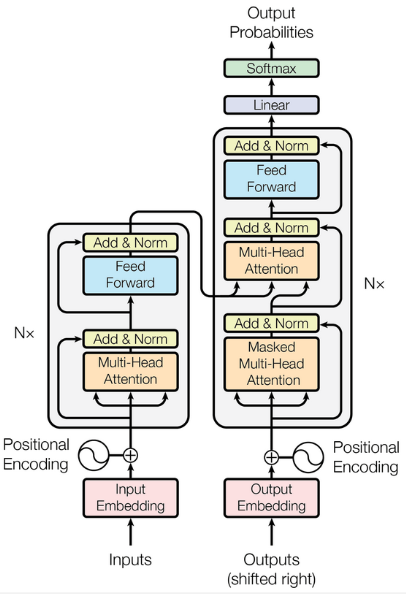
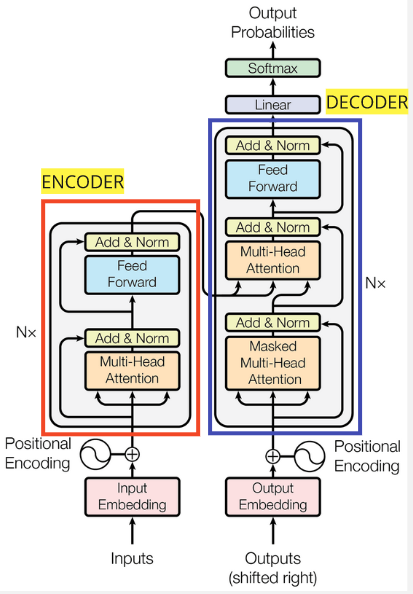
updated transformers-architecture

Changed region(s): [[0.0, 0.0, 1.0, 1.0]]

diff --git a/docs/deep-learning/13-transformers/02-transformers-architecture/transformers-architecture.md b/docs/deep-learning/13-transformers/02-transformers-architecture/transformers-architecture.md
@@ -8,23 +8,24 @@ description: Transformers Architecture
 **Main Source :**
 
 - **[Transformer (Attention is all you need) - Minsuk Heo 허민석](https://youtu.be/z1xs9jdZnuY?si=_rWDHRCle8k-x8SG)**
+- **[Illustrated Guide to Transformers Neural Network: A step by step explanation - The A.I. Hacker - Michael Phi](https://youtu.be/4Bdc55j80l8?si=hHjopC6GvZl-mZTv)**
 
-**Transformers** is a type of deep learning architecture that revolutionize the NLP field. Transformers specifically uses the [attention mechanism](/deep-learning/transformers/attention-mechanism) as the key component. While [RNN with attention](/deep-learning/transformers/attention-mechanism#rnn-with-attention) also use the attention mechanism, transformers is a standalone architecture that doesn't need traditional sequential model like [RNN](/deep-learning/rnn).
+**Transformers** is a type of deep learning architecture that specifically uses the [attention mechanism](/deep-learning/transformers/attention-mechanism) as the key component. While [RNN with attention](/deep-learning/transformers/attention-mechanism#rnn-with-attention) also use the attention mechanism, transformers is a standalone architecture that doesn't need traditional sequential model like [RNN](/deep-learning/rnn).
 
-RNN processes information in sequence, each step has to wait for the previous step to complete, this will makes computation slow. We also need to keep track of its hidden state, leading to increase in memory requirement. The removal of RNN will indeed allow us to get better performance. The motivation behind transformers is to address the performance issue we are facing in RNN. The question is, how can we preserve the attention mechanism while removing the RNN?
+RNN processes information in sequence, each step has to wait for the previous step to complete, this will makes computation slow. The removal of RNN will indeed allow us to get better performance. The motivation behind transformers is to address the performance issue we are facing in RNN. The question is, how can we remove RNN while preserving the attention mechanism?
 
 ## Transformers Architecture
 
 ![The main architecture of transformers](./transformers-architecture.png)  
-Source : https://machinelearningmastery.com/the-transformer-model/
+Source : https://machinelearningmastery.com/the-transformer-model/ (with modification)
 
-Transformers follow the encoder and decoder architecture, they contain the other working principle of transformers.
+Transformers follow the encoder and decoder architecture, meaning one component should capture and summarize information from input and another is the one that produces output.
 
 ### Encoder
 
-The encoder is responsible for taking the input sequence, it consist of multiple layer that works together. Here is the walkthrough of input processing in encoder :
+The encoder is responsible for taking and processing the input sequence, it consist of multiple layer that works together. Here is the walkthrough of input processing in encoder :
 
-1. **Input Embedding** : The input sequence is first transformed into a dense vector (often called as **token**) that captures its semantic meaning.
+1. **Input Embedding** : The input sequence is first transformed into a dense vector (often called as **token**) that of course contain numbers. The input embedding is a learnable process, meaning it can be adjusted during the backpropagation process.
 
 2. **Positional Encoding** : Since transformers doesn't include RNN that process input sequentially, **positional encoding** is a technique to capture the relative position of tokens within a sequence.
 
@@ -44,15 +45,21 @@ The first and second is the input pre-processing, the third and so on is the act
    - **Self-attention process** :  
      The self-attention is implemented by matrix multiplication. The token embedding are fed into the first layer in encoder. The self-attention mechanism is applied, it is done by calculating three types of vector called **query, key, and value vectors**. The tokens embedding are combined in a matrix, it will be multiplied by three types of matrices that correspond to each vector mentioned. The matrix are **Wq, Wk, and Wv**, they are basically weights in form of matrix, which mean they are learnable.
 
-   These three vector will be used to calculate the attention weight which is the value of importance of an element in sequence.
+   These three vector carries the information of token, they will be used to calculate an attention weight, which is the value of importance of a token in sequence.
 
    - The query vector represent specific position of token in the input sequence that we want to compute the attention weights for.
-   - Key vector represent the other token in the sequence that is being compared to the query vector. In contrast, we will compare all the element with each other.
+   - Key vector represent the other token in the sequence that is being compared to the query vector. As explained in self-attention mechanism, we will compare all the element with each other to consider which one is more important than other.
    - Value vector contain the actual information or the features of each token in the sequence.
 
-   The query and key vector (transposed) will be multiplied together, producing something called **attention scores**. They will be divided by the square root of the dimensionality of the key vectors, to prevent large number.
+   Visualization of the relation between each word or token in self-attention.  
+   ![Self-attention visualization 2](./self-attention-visualization.png)  
+   Source : https://www.researchgate.net/figure/A-visualization-of-a-learned-self-attention-head-on-a-sentence-The-visualization-shows_fig5_346522738, https://babich.biz/transformer-architecture/
 
-   [Softmax activation function](/deep-learning/neural-network#softmax-activation-function) will be applied to the previous result, resulting normalized value (they sum up to 1). The normalized value will be multiplied with the value vector, which is the actual token. The result of it is what we call **attention weights**. The output (called **attention layer output**) will be the sum of all attention weights and this will be done for all element in sequence.
+   The query and key vector (transposed) will be multiplied together, producing something called **attention scores**, it can be interpreted as the similarity between two token. The higher the result is the stronger the relevance. They will be divided by the square root of the dimensionality of the key vectors, to prevent large number. [Softmax activation function](/deep-learning/neural-network#softmax-activation-function) will be applied to the previous result, resulting normalized value (they sum up to 1).
+
+   The normalized value will be multiplied with the value vector. The result of it is what we call **attention weights**. The normalized value which represent the similarity of information is multiplied by the actual information of the token in input sequence. This mean we are assigning the similarity of information to each token.
+
+   The output (called **attention layer output**) will be the sum of all attention weights and this will be done for all element in sequence.
 
    ![Self-attention matrix multiplication](./self-attention.png)  
    Source : https://theaisummer.com/transformer/
@@ -60,27 +67,32 @@ The first and second is the input pre-processing, the third and so on is the act
    ![Another visualization of self-attention](./self-attention-2.png)  
    Source : https://youtu.be/z1xs9jdZnuY?si=czJyixA7IV3DxG7k&t=475
 
-4. **Multi-Head Attention** : Multi-head attention is a technique that extend self-attention mechanism for optimizing it using parallel computation.
+4. **Multi-Head Attention** : Multi-head attention is an extension of the self-attention mechanism that improves its efficiency through parallel computation.
 
    The set of query, key, and value vector we have obtained is grouped in something called **attention head**. They first goes into a linear layer to be projected into different vector spaces, basically projecting them mean we are looking through these vector from different perspective. This will allows the model to capture different representation of the input.
 
-   So, to calculate attention weights in parallel, we will compute all the attention head simultaneously. The same calculation that includes multiplication between query and key vector, softmax normalization, multiplication with the value vector is done.
+   So, to calculate attention weights in parallel, we will compute all the attention head simultaneously. The same calculation that includes multiplication between query and key vector, softmax normalization, and multiplication with the value vector, is also performed.
+
+   By calculating them simultaneously, the model can have longer dependencies when processing the input sequence. The model attends to all other tokens and can access different parts of the sequence during the matrix multiplication process.
 
    Each result of attention head will be concatenated together and will be passed into a linear layer again, producing the final output of multi-head attention layer.
 
    ![Multi-head attention](./multi-head-attention.png)  
    Source : https://paperswithcode.com/method/multi-head-attention
 
-5. **Residual Connection and Layer Normalization (Add & Norm)** : We did alot of calculation, during the backpropagation process, we may lose some information including the positional encoding we did in the earlier step. Transformers uses the [residual connection concept](/deep-learning/resnet#residual-connection) to help prevent the vanishing gradient issue. This layer also include a normalization process to normalize the output of attention layer, stabilizing the training process.
+5. **Residual Connection and Layer Normalization (Add & Norm)** : We did alot of calculation, during the backpropagation process, we may lose some information including the positional encoding we did in the earlier step. Transformers uses the [residual connection concept](/deep-learning/resnet#residual-connection) to help prevent the vanishing gradient issue. This is implemented by adding the input that bypass the attention layer with the same input that goes to the attention layer. This layer also include a normalization process to normalize the output of attention layer, to prevent large number and stabilize the training process.
 
-6. **Feed-Forward Networks (FFN)** : The attention output is passed through a feed-forward network within the encoder layer. The FFN that includes activation function like ReLU introduces non-linearity. The output of the FFN is then passed through another residual connection and layer normalization.
+6. **Feed-Forward Networks (FFN)** : The attention output is passed through a feed-forward network within the encoder layer. The FFN that includes activation function like ReLU introduces non-linearity. The output of the FFN is then passed through another residual connection and layer normalization. Similar to residual connection in multi-head attention layer, we will add the input that bypass the feed-forward network with the one that goes through it.
+
+   ![Residual connection](./add-norm.png)  
+   Source : https://deepgram.com/learn/visualizing-and-explaining-transformer-models-from-the-ground-up
 
 The step from 3 to 6 represent the process of a single encoder layer. In conclusion, a single layer of encoder processes and transform the input sequence to capture relevant information in the sequence.
 
 Transformers architecture may includes multiple encoder layer, they have identical architecture but they don't share weights.
 
 ![The encoder layer](./encoder-layer.png)  
-Source : https://machinelearningmastery.com/the-transformer-model/ (with modification)
+ Source : https://machinelearningmastery.com/the-transformer-model/ (with modification)
 
 ### Decoder
 
@@ -105,10 +117,10 @@ The decoder first process the previous output and then it will be combined with 
 
 7. **Output** : Finally, the output from previous layer will go into a linear layer, followed with softmax activation function to produces the probability of each token. The model select the token with highest probability and use it as the input for next decoder step.
 
-![Transformers output](./transformers-output.png)  
-Source : https://www.linkedin.com/pulse/intro-transformer-architecture-jithin-s-l
+   ![Transformers output](./transformers-output.png)  
+   Source : https://www.linkedin.com/pulse/intro-transformer-architecture-jithin-s-l
 
-### Learning Process
+#### Learning Process
 
 After output is generated, the prediction or whatever the output is will be compared with the actual label of the input. For example :
 
@@ -116,3 +128,5 @@ After output is generated, the prediction or whatever the output is will be comp
 - In text classification, the labels represent different categories of the input text.
 
 After loss is calculated, the similar learning process will be done, including the backpropagation process through all the layer of transformers model from the decoder output until the encoder input.
+
+Transformers model is considered as semi-supervised learning. It relies on labeled data which require explicit supervision but also use unlabeled data to improve its generalization. The semi-supervised learning may also involve techniques like pretrained and fine tuning. The pretrained technique mean the model is trained on unlabeled data and then it will be fine tuned, a smaller labeled dataset will be fed to the model to adapt it on specific tasks.
